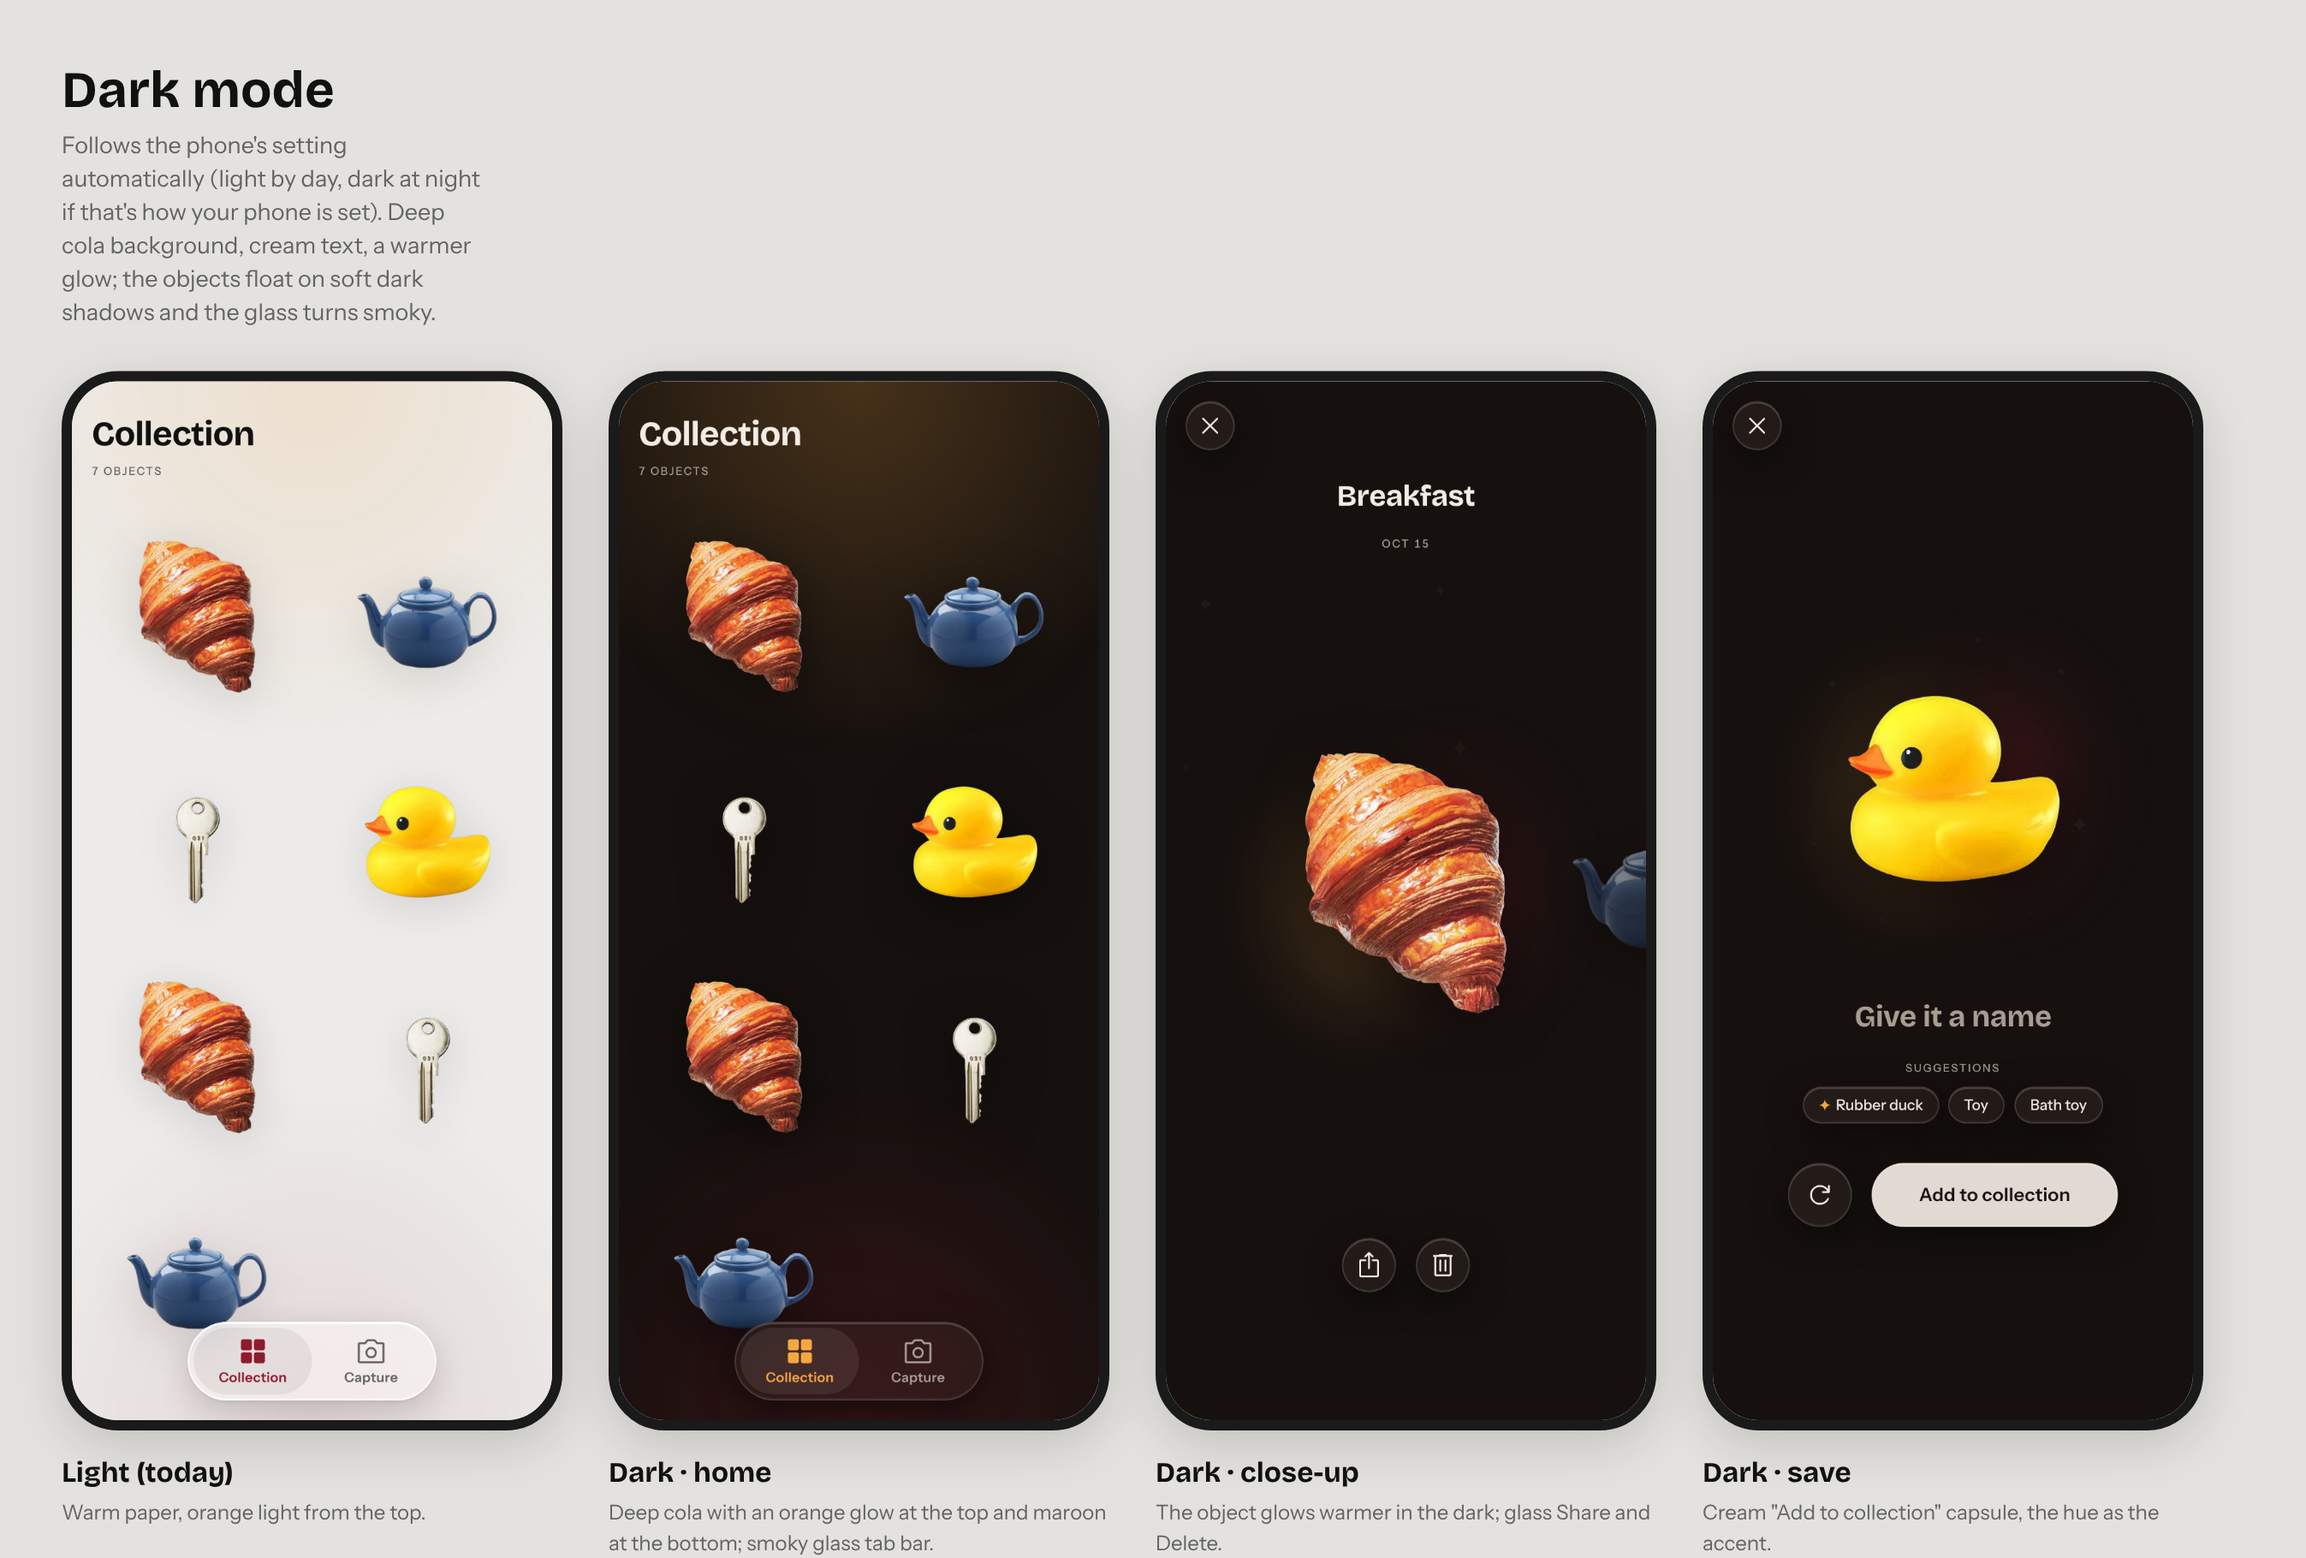
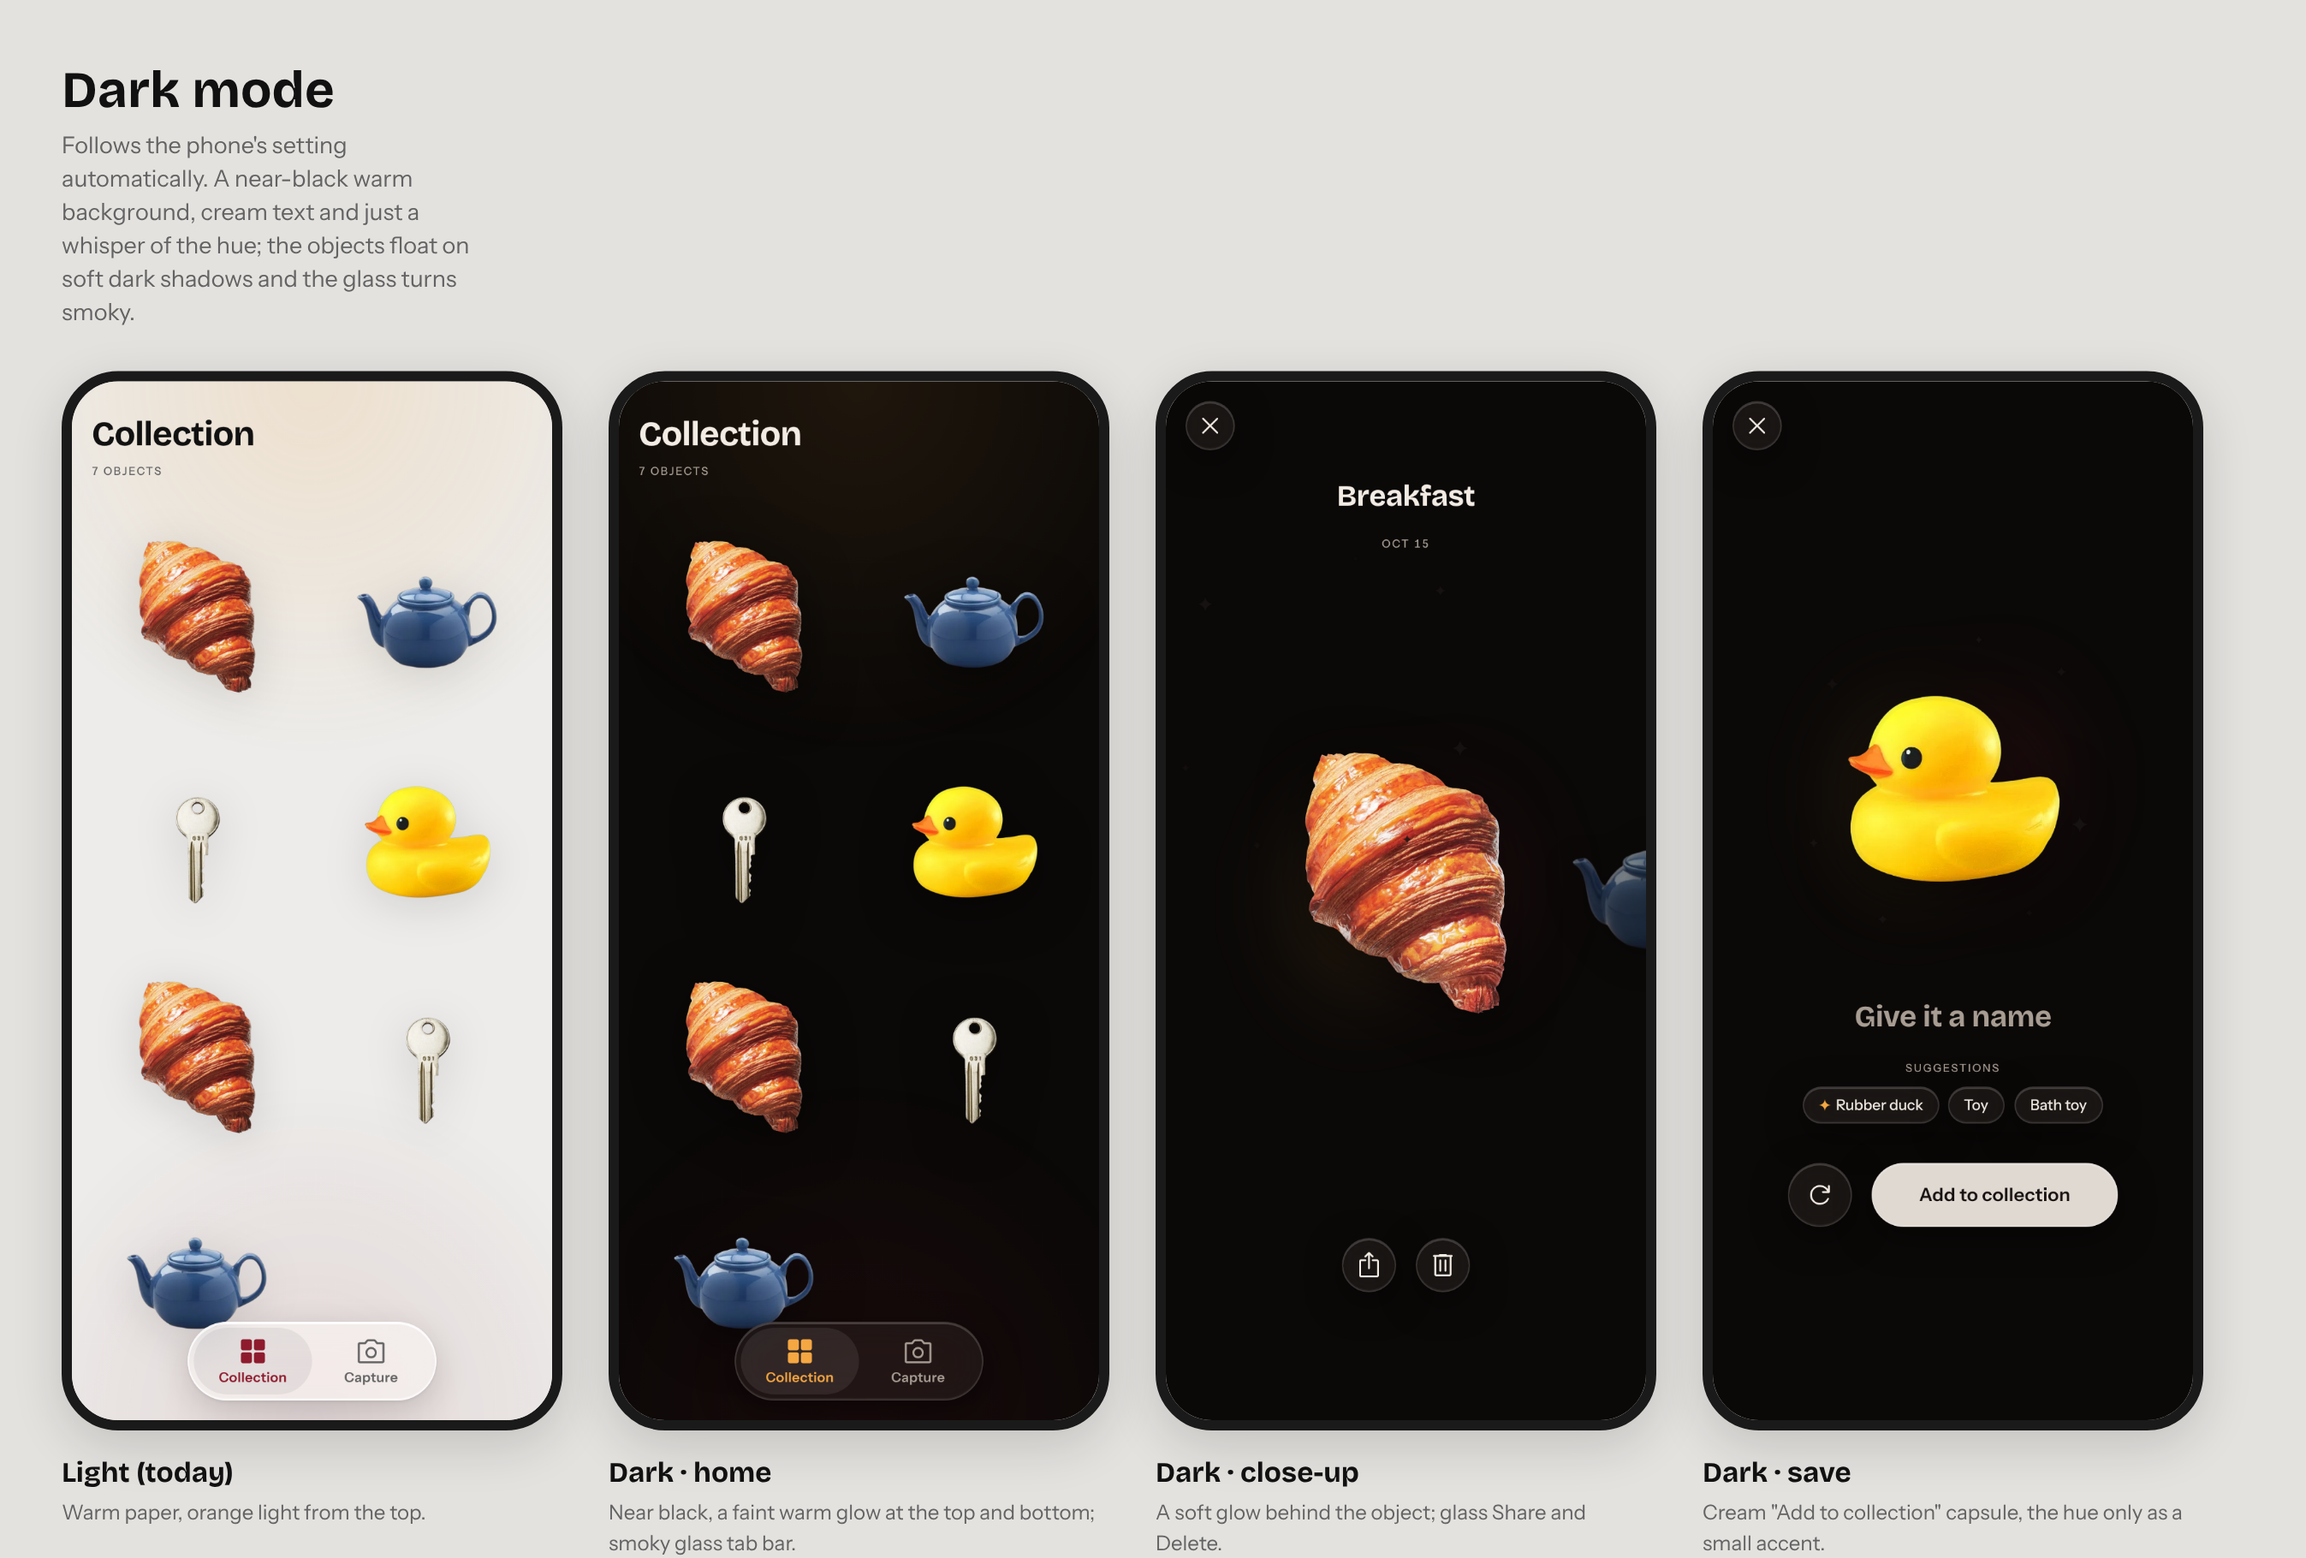
Release notes for build 1.1; dark mode mock-up with a darker, quieter palette
- store/release-notes.md: store text, what's new, what to test, known limits
- Dark mode mock-up: near-black background, softer hue; tokens saved

Claude-Session: https://claude.ai/code/session_01RbKYJcvH7oJrXdSv5gCmZ4

diff --git a/design/mockups/dark-mode-tokens.css b/design/mockups/dark-mode-tokens.css
@@ -1,0 +1,15 @@
+:root {
+  --color-bg: #0b0908; --color-text: #f3ece4; --color-text-secondary: #a89d93;
+  --color-round: #1e1a18; --color-surface: #171312; --color-dot: #3a302c;
+  --color-ink: #f3ece4; --color-on-ink: #16110f; --hue-ink: #f5a742;
+  --glass-fill: rgb(38 33 31 / 0.55); --glass-edge: rgb(255 255 255 / 0.14);
+  --glass-shine: inset 0 1px 0 rgb(255 255 255 / 0.18), inset 0 -1px 0 rgb(255 255 255 / 0.05);
+  --glass-pressed: rgb(255 255 255 / 0.08);
+  --wash-top: color-mix(in srgb, var(--hue) 9%, transparent); --wash-bottom: color-mix(in srgb, var(--hue-2) 12%, transparent);
+  --shadow-menu: 0 8px 28px rgb(0 0 0 / 0.5);
+  --sticker-filter: drop-shadow(0 8px 20px rgb(0 0 0 / 0.5));
+  --hue-glow-1: rgb(245 167 66 / 0.16); --hue-glow-2: rgb(142 27 45 / 0.22);
+  color-scheme: dark;
+}
+body { background: var(--color-bg); }
+.btn-primary { background: color-mix(in srgb, #f3ece4 92%, transparent); color: #16110f; }

diff --git a/store/release-notes.md b/store/release-notes.md
@@ -1,0 +1,49 @@
+# collectobjects: release notes
+
+Words for the app stores, TestFlight and GitHub Releases. Sentence case, warm and brief,
+no exclamation marks or emoji (see `design/content.md`).
+
+## Build 1.1 (in testing)
+
+**Short version (stores, up to 500 characters)**
+
+A calmer, more playful collectobjects. Your collection now shows just the objects, under a floating glass tab bar. Tap one and it flies open; swipe left and right to visit the rest, with a little tick for each. Names are suggested for you, and naming stays optional. Shake your phone hard and everything tumbles into a pile you can play with. And it's on iPhone now.
+
+**What's new**
+
+- **Just the objects.** The collection shows your objects alone, no labels, on a soft warm background. Names and dates live in the close-up.
+- **A glass tab bar.** Collection and Capture float at the bottom and tuck away as you scroll.
+- **The close-up is a carousel.** Tap an object and it flies open while the rest step aside. Swipe to visit the others, with a gentle haptic tick for each one. Share and Delete sit just below; Delete always asks first.
+- **Name suggestions.** After the cut-out, a few names appear for you to tap. They're worked out on your phone, so your photo still never leaves it.
+- **Naming is optional.** The keyboard waits until you want it, and an unnamed object simply shows no label.
+- **Shake to tumble.** Shake hard on the home screen and your whole collection falls into a heap, in slow motion. Drag them, toss them, tilt your phone to roll them around, then tidy up. Each object feels a little different when it lands.
+- **Little touches.** Objects rise in when you open the app, a deleted object fades away, and you'll feel small taps in the right places.
+- **iPhone.** collectobjects now runs on iPhone, with the cut-out done by Apple's own on-device tools (iOS 17 or newer).
+
+**Changed**
+
+- The story field is gone, to keep saving quick and the close-up calm. Stories you already wrote are kept safely, just not shown.
+- Cut-outs no longer have a white outline, so the objects themselves shine.
+
+**Fixed**
+
+- The close-up now tilts with your phone on iPhone.
+
+**Still private.** No account, no ads, no tracking. Everything stays on your phone.
+
+---
+
+**What to test (TestFlight / testers)**
+
+1. Snap a few objects. Do the name suggestions make sense? Does the cut-out look clean?
+2. Tap an object, swipe through the carousel, close it. Does it fly back to the right place?
+3. Delete one: does it ask first, and fade away?
+4. Shake hard on the home screen. Does it feel slow and bouncy? Can you drag and toss them? Tidy up.
+5. Scroll a long collection: does the tab bar shrink and come back?
+6. Tell us anything that feels off, slow, or confusing.
+
+**Known limits**
+
+- iPhone cut-outs need iOS 17 or newer; older iPhones keep the whole photo.
+- Name suggestions are in English for now.
+- Shake to tumble uses your 40 newest objects.
